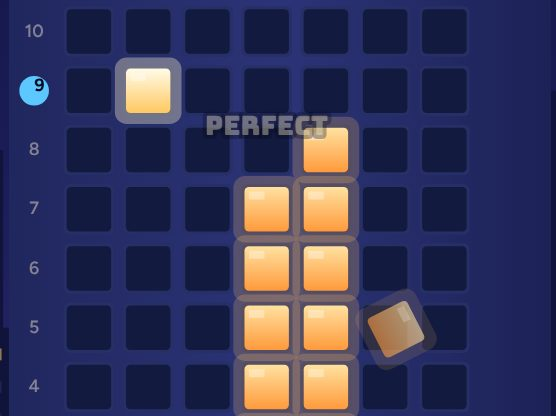
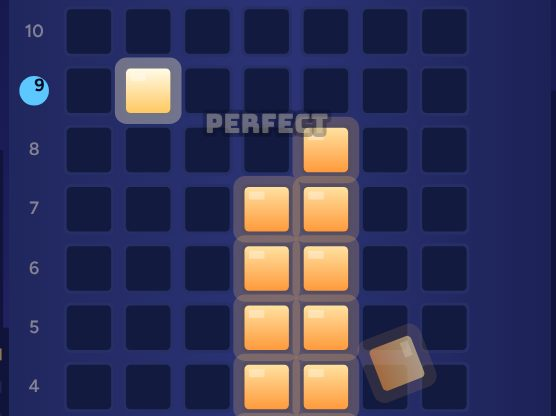
Highrise: rows set off from anywhere, a hair slower
Each row used to sit still at its starting wall for a beat before it moved,
and every other floor started from the right wall, so a tower built against
that wall got a long, easy window on half its floors. Now each row sets off
from a random place, either way, and only appears as it starts moving.
The rows are about a tenth slower too: about six windows a second at the
bottom to thirteen at the top.

Claude-Session: https://claude.ai/code/session_01RkvUFhzoaPZyofz3pSrJ5i

Changed region(s): [[0.6421, 0.6875, 0.795, 0.9688], [0.3669, 0.25, 0.5809, 0.3438]]

diff --git a/highrise/js/tower.js b/highrise/js/tower.js
@@ -2,7 +2,8 @@
 // The grid is a building's front, COLS windows across and FLOORS floors up. On each floor a row of lit windows slides
 // from side to side, and stopping it sets it down: windows with a lit window under them stay lit, and the rest fall
 // off. The row on the next floor is as wide as what stayed lit, but never wider than that floor allows: three
-// windows to start, two from floor 6 and one from floor 11. It moves faster the higher it gets.
+// windows to start, two from floor 6 and one from floor 11. It moves faster the higher it gets, and each row sets off
+// from somewhere new, going either way, so no spot on the floor is easier to build on than another.
 // js/app.js keeps the time and asks where the row is; js/draw.js draws it.
 
 export const COLS = 7;
@@ -13,19 +14,22 @@ export const MAJOR_BONUS = 200;    // tickets for topping out, with the trophy
 
 // The widest row a floor allows, and how long the row takes to move one window along there (ms).
 export const most = floor => (floor <= 5 ? 3 : floor <= 10 ? 2 : 1);
-export const stepMs = floor => Math.max(62, Math.round(150 * 0.94 ** (floor - 1)));
+export const stepMs = floor => Math.max(70, Math.round(162 * 0.945 ** (floor - 1)));
 
-export function createTower() {
+export function createTower({ random = Math.random } = {}) {
   const rows = [];        // the floors built, bottom first: each the columns lit on it, in order
   let width = 3;          // windows in the row that's moving now
-  let fromRight = false;  // which side it set off from: each floor starts from the other side
+  // Where in its back-and-forth the row sets off: 0 is the left wall heading right, COLS - width the right wall,
+  // and on from there heading back left.
+  const setOff = () => Math.floor(random() * 2 * (COLS - width));
+  let phase = setOff();
 
   // Where the moving row's left end is, ms after it set off: it bounces between the walls a window at a time.
   function moverAt(ms) {
     const max = COLS - width, period = 2 * max;
     const step = Math.floor(Math.max(0, ms) / stepMs(rows.length + 1));
-    const p = step % period, pos = p <= max ? p : period - p;
-    return fromRight ? max - pos : pos;
+    const p = (phase + step) % period;
+    return p <= max ? p : period - p;
   }
 
   // Sets the moving row down with its left end at start. What stayed lit and what fell, and what that means:
@@ -42,7 +46,7 @@ export function createTower() {
     result.minor = floor === MINOR;
     result.top = floor === FLOORS;
     width = Math.min(kept.length, most(floor + 1));
-    fromRight = !fromRight;
+    phase = setOff();
     return result;
   }
 

diff --git a/highrise/js/app.js b/highrise/js/app.js
@@ -224,12 +224,12 @@ function tick(now) {
   if (mode === 'over' || mode === 'ending' && !cheer) dim = Math.min(1, dim + s);
   if (mode === 'ending' && clock >= ended.at) endGame();
 
-  // the moving row: on the floor being built while playing, and on the ground floor behind the title card
+  // the moving row: on the floor being built while playing (it appears as it sets off, not before, so it never sits
+  // still anywhere), and on the ground floor behind the title card
   let mover = null;
-  if (mode === 'play' || mode === 'title') {
-    const t = mode === 'title' ? clock : clock - rowFrom;
-    const at = tower.moverAt(t);
-    if (mode === 'play' && clock >= rowFrom && at !== shown) sound.tick(tower.floor);
+  if (mode === 'title' || (mode === 'play' && clock >= rowFrom)) {
+    const at = tower.moverAt(mode === 'title' ? clock : clock - rowFrom);
+    if (mode === 'play' && at !== shown) sound.tick(tower.floor);
     shown = at;
     mover = { floor: tower.floor, start: at, width: tower.width };
   }

diff --git a/README.md b/README.md
@@ -104,8 +104,8 @@ A coin pusher, looking down through the glass: a chrome shelf sliding in and out
 
 A stacker: a tower against a night skyline, its windows the grid, seven across and fifteen floors high.
 
-- **Stop the row.** A row of lit windows slides from side to side along the floor being built. Press **Stop** (or tap the tower, or press Space) to set it down. Windows with a lit window under them stay lit; the rest fall off, and the next row is only as wide as what stayed up.
-- **It gets harder as it climbs.** Each floor moves a little faster than the one below, from about seven windows a second at the bottom to sixteen at the top. Rows are three windows wide to start, two at most from floor 6, and one from floor 11.
+- **Stop the row.** A row of lit windows slides from side to side along the floor being built, setting off from somewhere new on each floor. Press **Stop** (or tap the tower, or press Space) to set it down. Windows with a lit window under them stay lit; the rest fall off, and the next row is only as wide as what stayed up.
+- **It gets harder as it climbs.** Each floor moves a little faster than the one below, from about six windows a second at the bottom to thirteen at the top. Rows are three windows wide to start, two at most from floor 6, and one from floor 11.
 - **Prizes.** Every floor built is a ticket. Floor 11 is the minor prize: take 25 more tickets and stop there, or keep going for the top. Build all fifteen and it pays 200 tickets and the Highrise trophy for your shelf. Keep going and stop short, and the 25 is gone (the floors still pay).
 
 ## Where the machines came from
